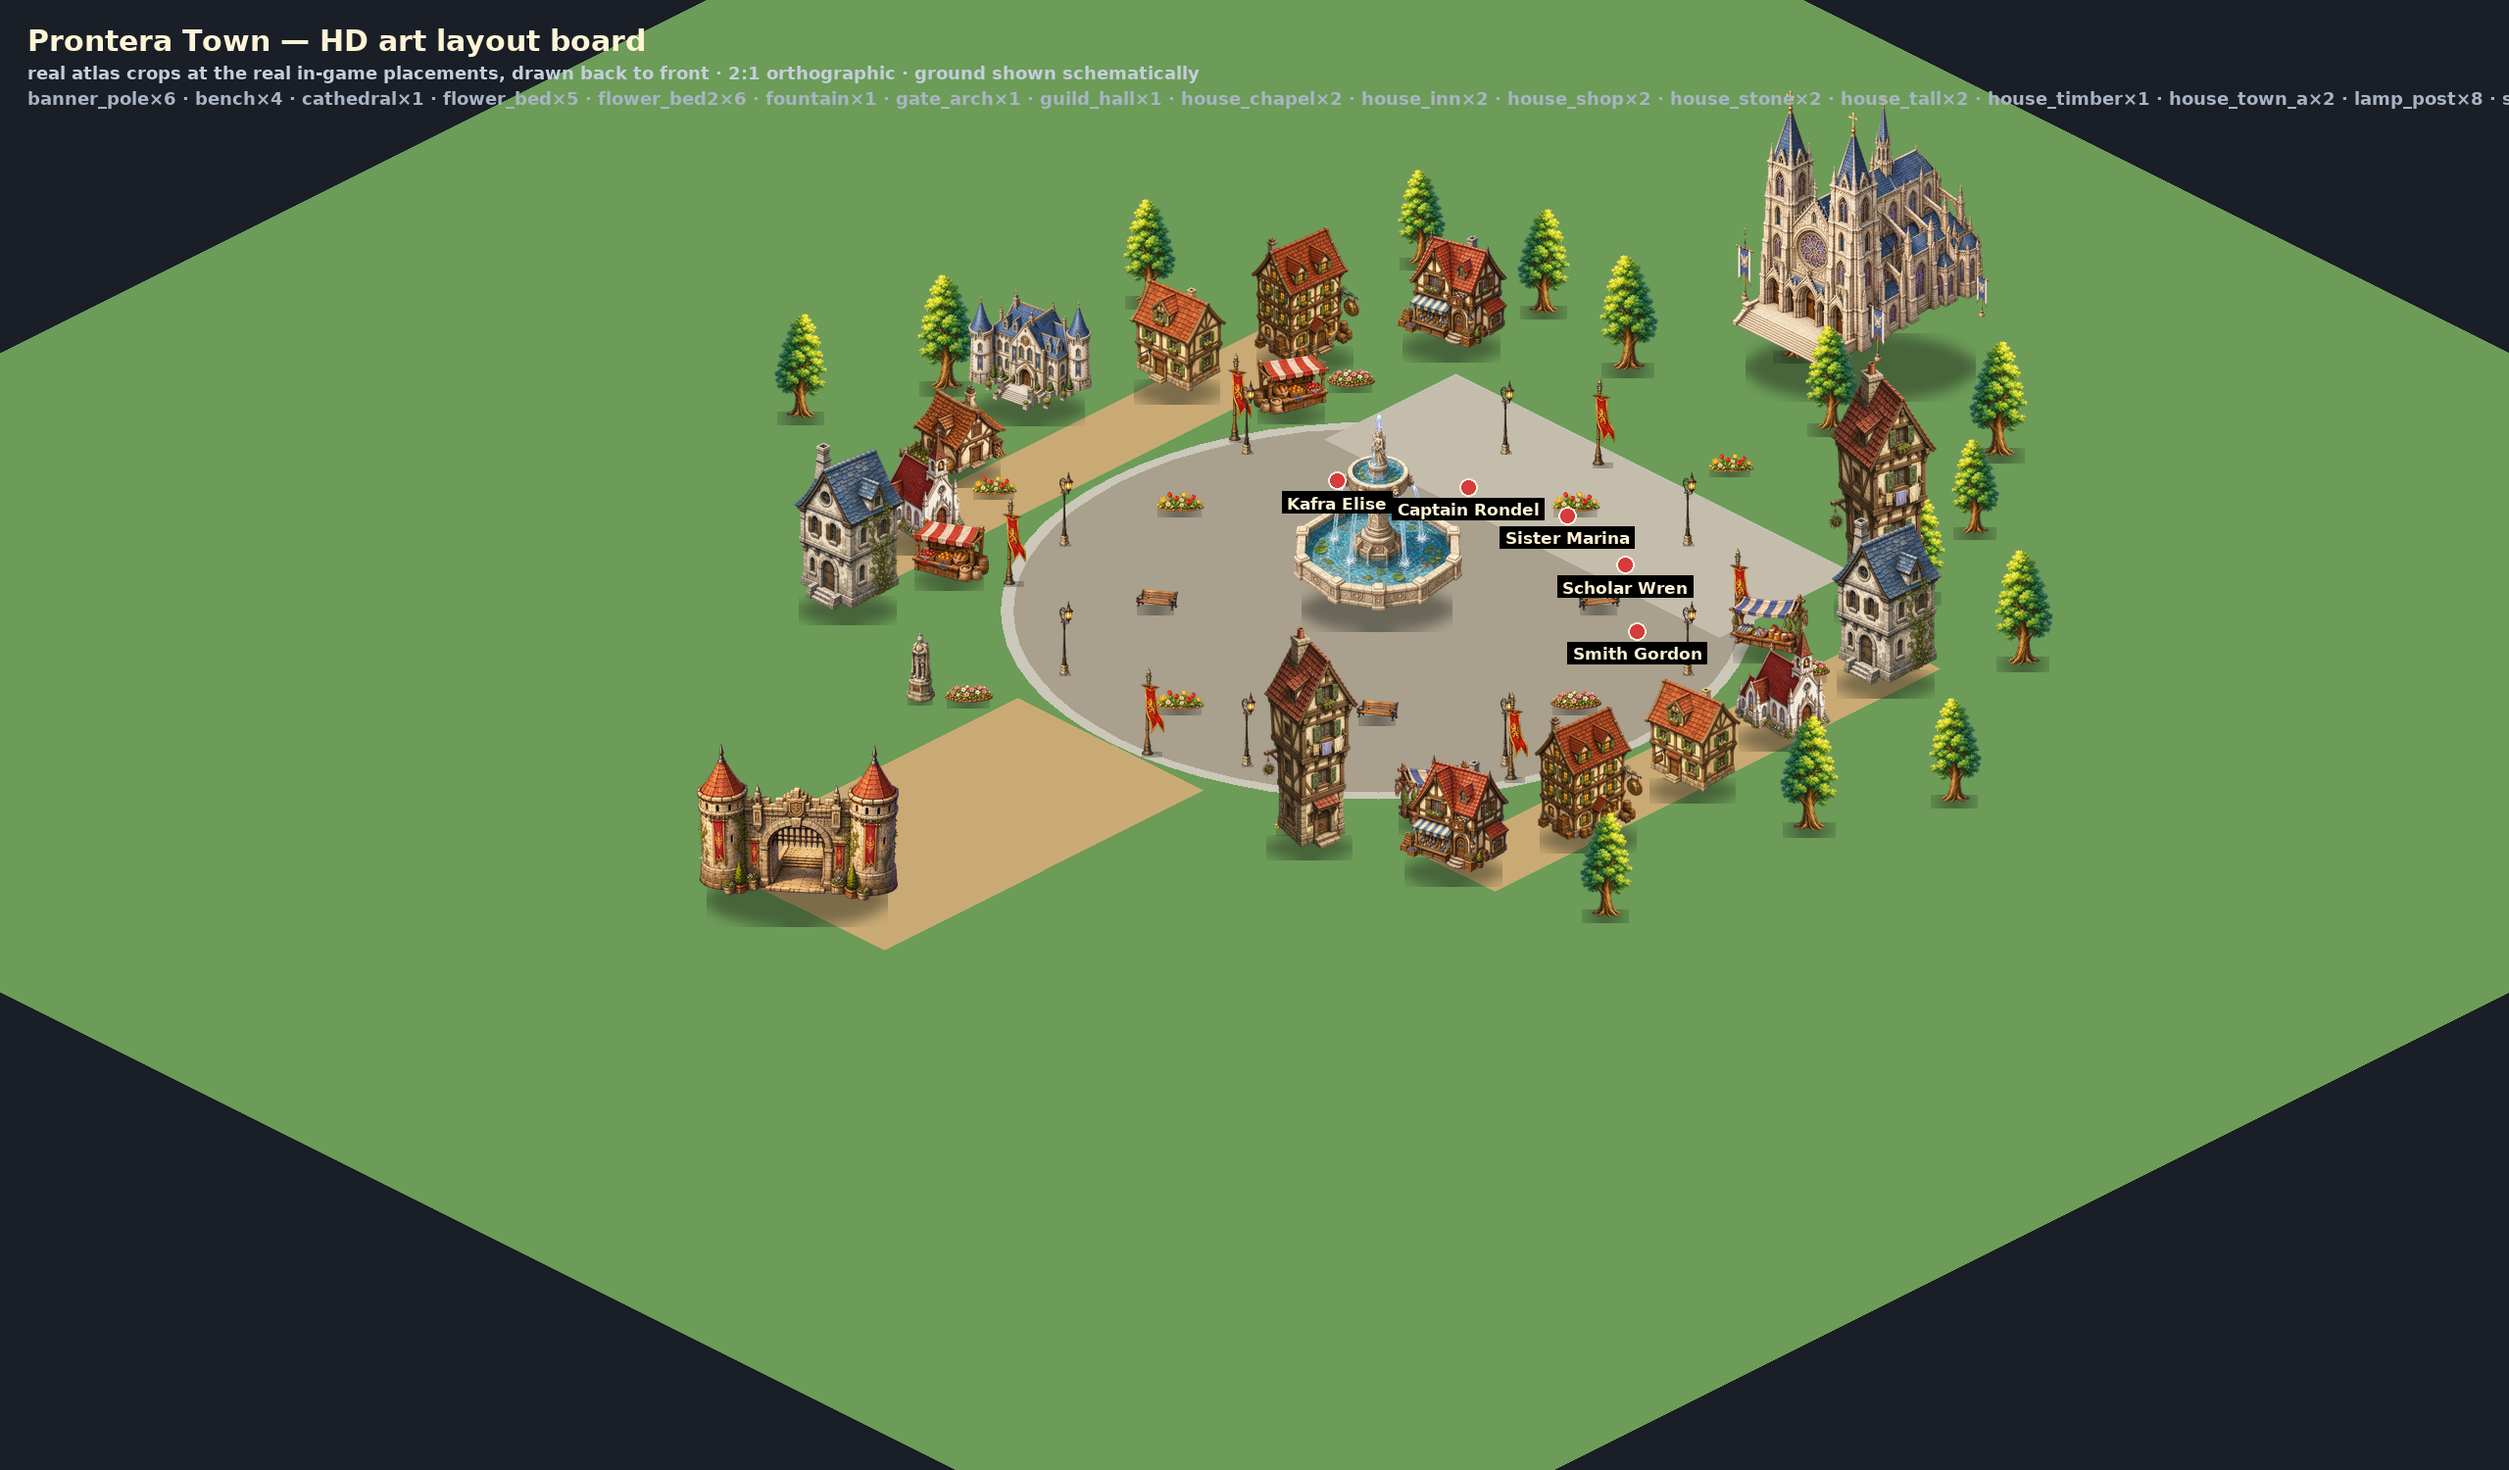
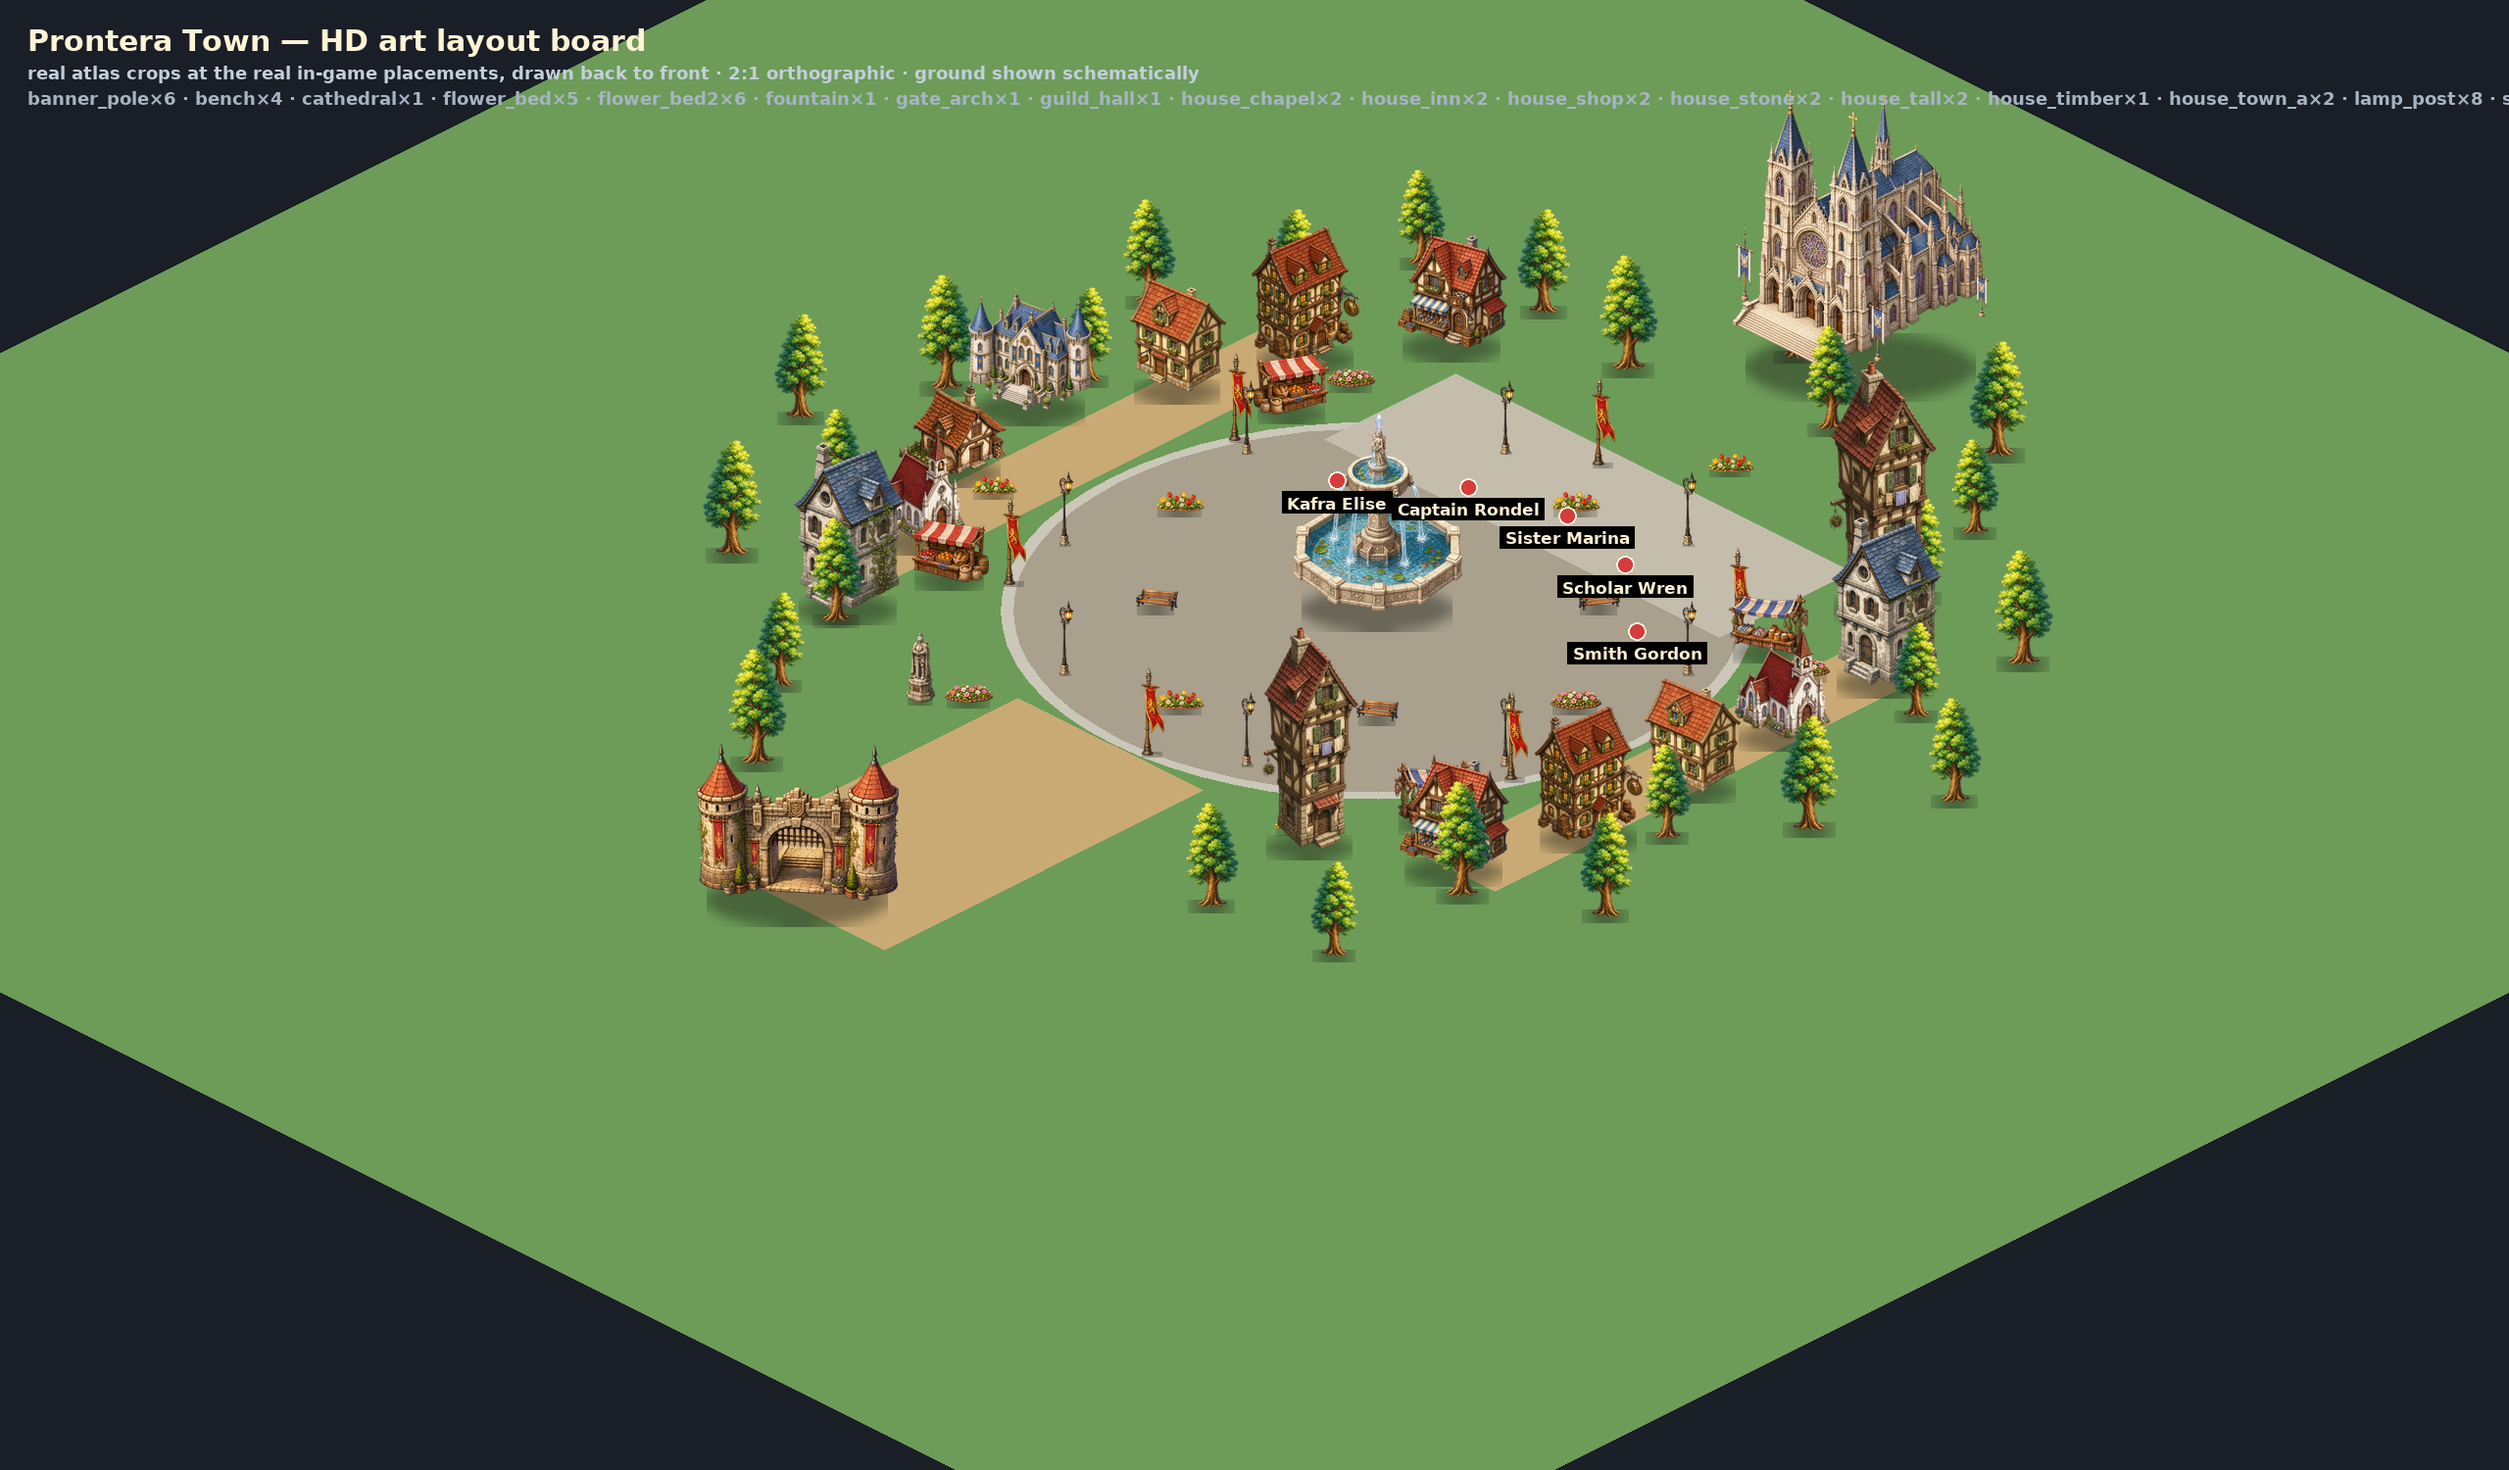
v69 polish: the tree ring keeps the avenue and the square clear, and fills the rest
The old skip test dropped any tree inside the walkable box (x ±17.5 / z -16.6..19), which cut away
the whole southern apron; it now protects the avenue (|x| < 6.2 and z > 5) and the square itself
(dist to the plaza centre < 15.4) and lets the rest grow - 27 trees instead of 15, including the
ground between the houses and the edge that the tightened ring opened up.

Also the board and the v69 log entry describe the tightened square (fifteen houses walling the east
and west sides, street-frontage sizing, the cathedral's north end kept clear).

diff --git a/index.html b/index.html
@@ -5161,7 +5161,8 @@ function townBuild(){
   // trees and flowers on the grass between the buildings
   for(let i=0;i<30;i++){
     const a=i*Math.PI/15+.22,r=18.6+((i*13)%5)*1.3,x=Math.cos(a)*r,z=TOWN_Z+Math.sin(a)*r;
-    if(x>TOWN_BOUND.x0-1.4&&x<TOWN_BOUND.x1+1.4&&z>TOWN_BOUND.z0-1.4&&z<TOWN_BOUND.z1+1.4)continue;
+    if(Math.abs(x)<6.2&&z>5)continue;                       // the avenue runs there
+    if(Math.hypot(x,z-TOWN_Z)<15.4)continue;                // nothing grows on the square
     const g2=new THREE.Group();g2.position.set(x,0,z);TOWN.propBlk.add(g2);
     mk(g2,CY(.16,.24,1.5),C.wood,0,.75,0);const tr=mk(g2,SP(1.05),i%2?0x3f9b4a:0x4fae4f,0,2.35,0);
     prop('tree_big',x,z,4.6+((i*7)%3)*.5,i%2===1,[g2]);

diff --git a/AGENTS.md b/AGENTS.md
@@ -4012,7 +4012,11 @@ assigned for feel rather than fidelity. While reworking that, two shipped bugs s
   7.6 units and the cathedral moved in from z -33 to -29.5 so it closes the skyline instead of
   floating; the fountain went **up** to 9.5 units (it is the centrepiece) and its water anchors
   (`TOWN.waterTop`/`waterBasin`) are derived from that height rather than hard-coded; the tree ring
-  moved out to r 18.6 and grew from 22 to 30, because the houses now stand on the old line.
+  moved out to r 18.6 and grew from 22 to 30 (27 place), because the houses now stand on the old line
+  — and its skip test was fixed while doing it: it used to drop any tree inside the walkable **box**
+  (x ±17.5 / z -16.6..19), which cut away the whole southern apron including trees that had nothing to
+  do with the bound; it now keeps the avenue clear (`|x| < 6.2 and z > 5`) and keeps the square itself
+  clear (`dist to plaza centre < 15.4`), so trees fill the ground a player actually walks past.
 * **A board, because this workspace has no browser.** `node tools/_town_dump.js` boots the real
   `index.html` in jsdom, walks into the town with the **real** atlas manifest, and writes
   `/tmp/town_placements.json` (every painted sprite: which art, where, how big, mirrored, which
